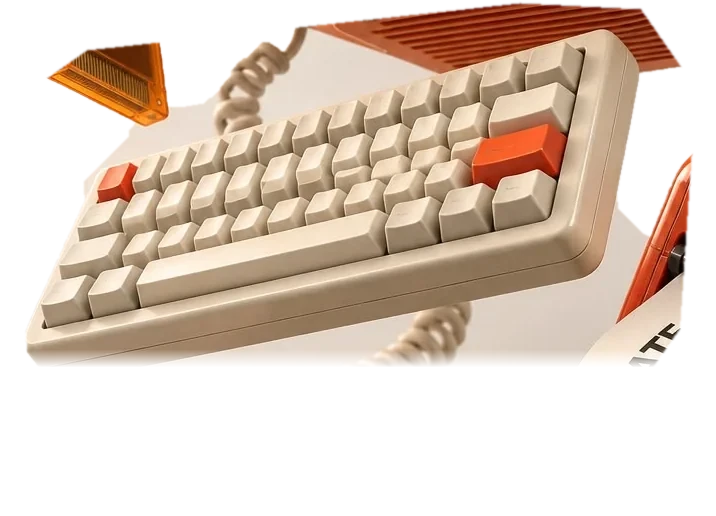
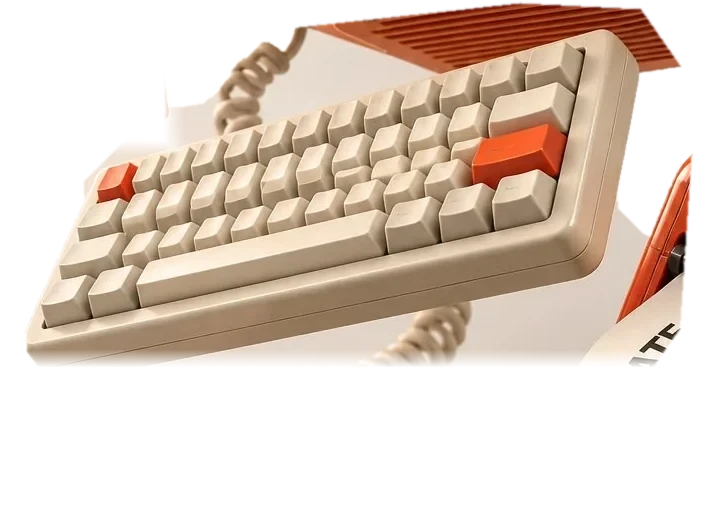
fix(v5): remove duplicated floating cartridge fragment from keyboard layer

Changed region(s): [[0.0615, 0.062, 0.2458, 0.3101]]

diff --git a/src/app/v5-desktop.css b/src/app/v5-desktop.css
@@ -259,3 +259,5 @@
   .v5-headline { font-size:66px; }
   .v5-stat { right:3%; }
 }
+
+/* V5.1 asset attestation: single cartridge layer, no duplicate keyboard fragment. */
